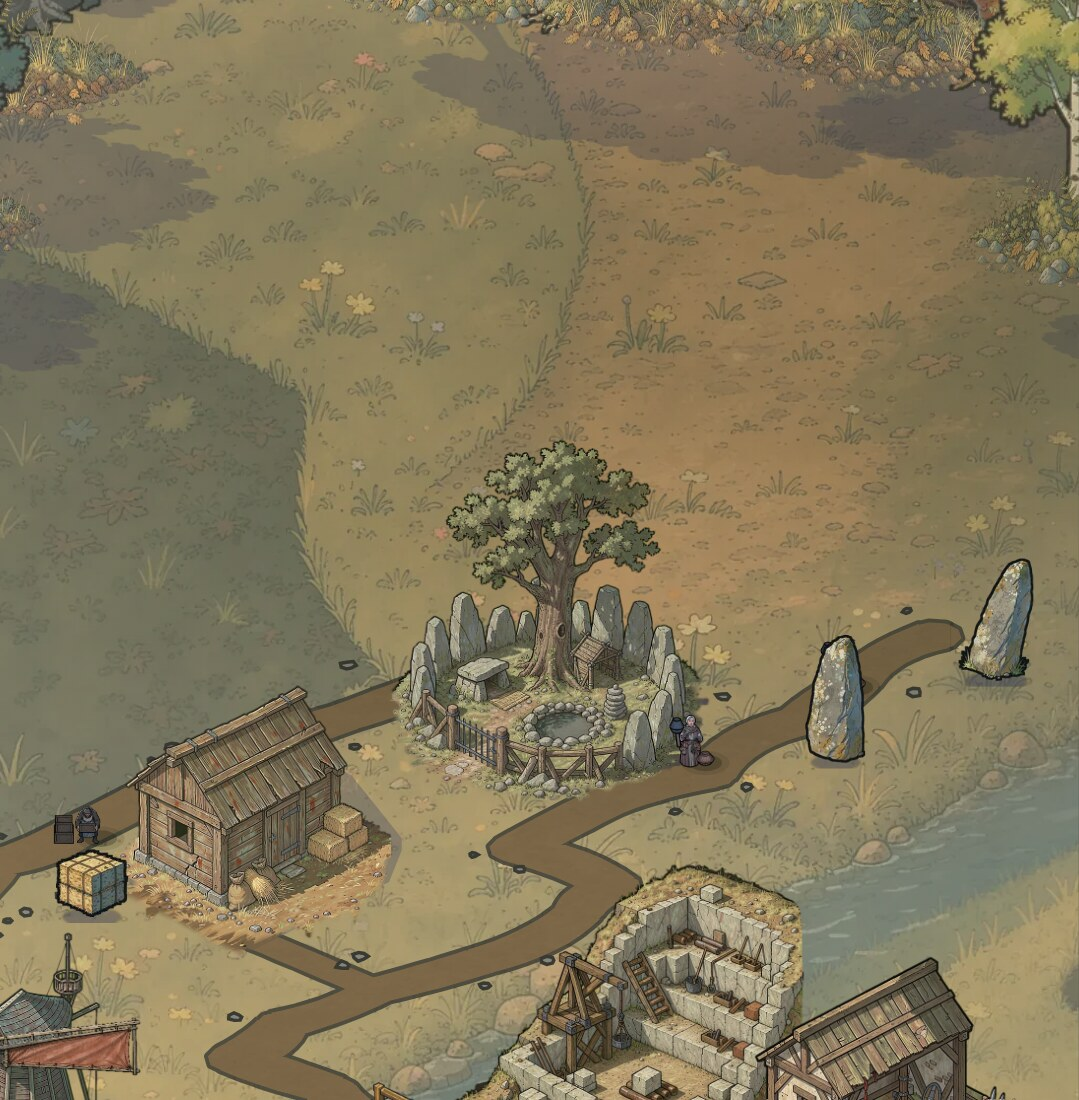
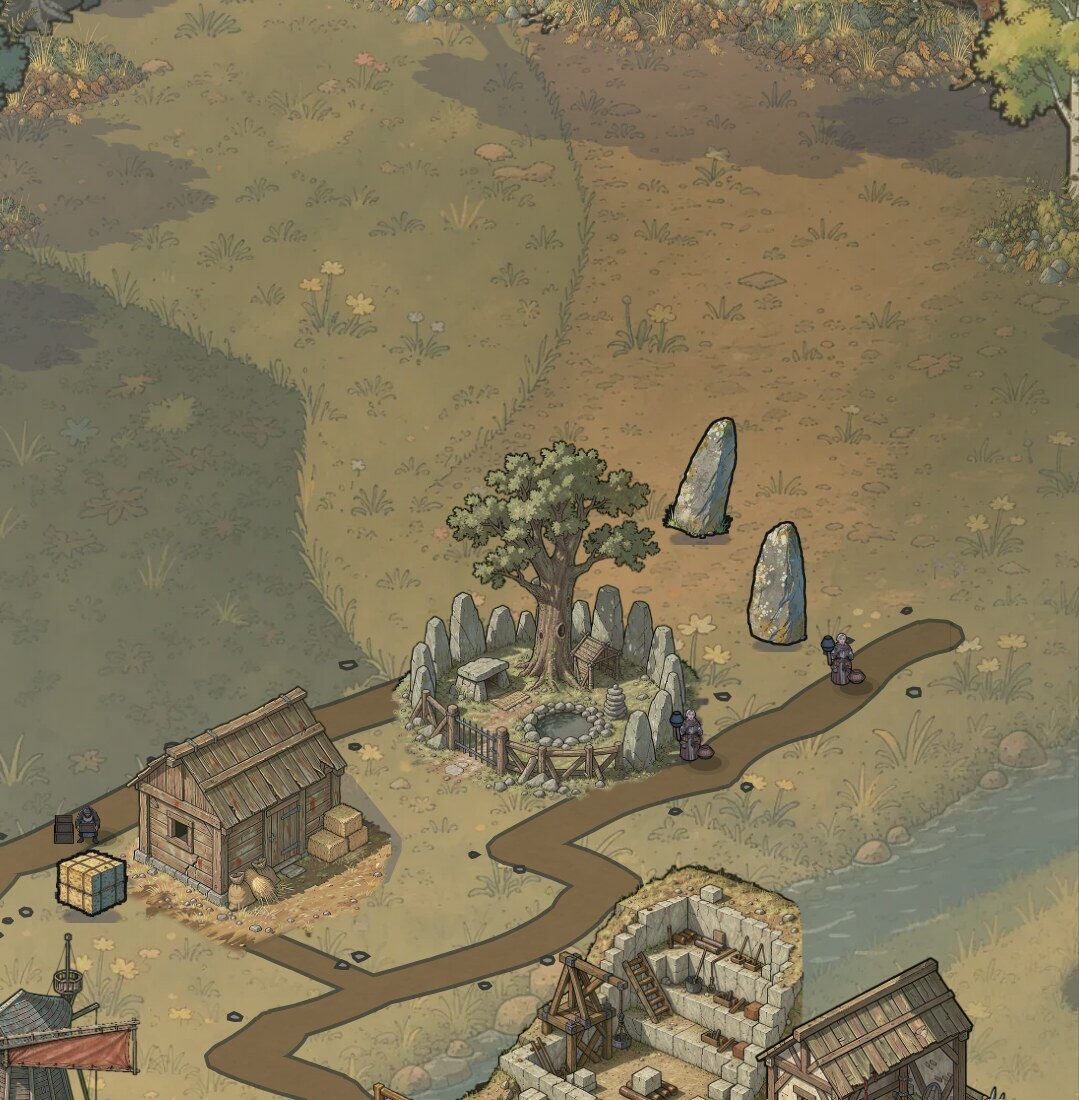
fix(layout): dead ends removed, menhirs off the road, south gate opening free of standing figures
Claude-Session: https://claude.ai/code/session_016PyBattknJAtyEqh7E1ngo

Changed region(s): [[0.6117, 0.3709, 0.8258, 0.7109], [0.8869, 0.4945, 0.9787, 0.6491], [0.6117, 0.6491, 0.6728, 0.7109]]

diff --git a/components/village/iso/alentours.ts b/components/village/iso/alentours.ts
@@ -1140,8 +1140,8 @@ export const ACCESSOIRES: readonly Accessoire[] = [
   { nom: "ratelier_2", case: [14, 14], batiment: "archery_range", palier: 5 },
   { nom: "caisses_1", case: [16, 7], batiment: "armory" },
   { nom: "etal_1", case: [9, 12], batiment: "fountain", palier: 6 },
-  { nom: "menhir_1", case: [0, -6], batiment: "druid_grove" },
-  { nom: "menhir_3", case: [0, -8], batiment: "druid_grove", palier: 7 },
+  { nom: "menhir_1", case: [-2, -7], batiment: "druid_grove" },
+  { nom: "menhir_3", case: [-4, -8], batiment: "druid_grove", palier: 7 },
   { nom: "menhir_2", case: [17, 1], batiment: "wizard_tower" },
   { nom: "lanterne_2", case: [16, 6], batiment: "watchtower" },
   { nom: "poteau_indicateur_1", case: [19, 14], batiment: "high_road" },
@@ -1158,7 +1158,7 @@ export const ACCESSOIRES: readonly Accessoire[] = [
     palier: 3,
   },
   { nom: "pecheur_1", case: [2, 11], pied: [2.55, 11.02], palier: 2 },
-  { nom: "charrette_cassee_1", case: [13, 18], palier: 10 },
+  { nom: "charrette_cassee_1", case: [15, 19], palier: 10 },
   { nom: "renard_1", case: [-4, 8], batiment: "farm", palier: 4 },
   // The south corner, off the island: the cart alone, on the road's edge beside the wheat plot (docs/designs/village-loop/loupes/bc/route_tuiles.json). The painted ground carries its own fence, hay, barrels and crates. It repeats the prop 6 cells or more away on the island, so mirrored.
   // Round 5: wholly on the road, near its east edge, never across it. The painted road is about 150 px wide here (x 255 to 405 at y 1600 on p06) and the cart's art 71 px, so the foot at screen px (346, 1630) keeps the wheel 20 px inside the edge.

diff --git a/components/village/iso/marcheurs.ts b/components/village/iso/marcheurs.ts
@@ -264,10 +264,9 @@ export function casesDuLieu(lieu: Lieu, carte: Carte): Case[] {
     return tri(
       unique([
         // Not the cells under the gatehouse's door (17, 10) and the south gate (12, 15): a villager standing there hides the gate.
+        // The south gate's cells (12, 16) and (12, 17) are the opening onto the south road: nobody stands there either.
         [18, 10],
         [19, 10],
-        [12, 16],
-        [12, 17],
       ]),
     );
   if (lieu === "lisiere") {

diff --git a/scripts/layout/paliers.py b/scripts/layout/paliers.py
@@ -39,7 +39,7 @@ PLOT = {
 }
 # The wall's stages keep starting at tier 6 (palisade through tier 6, the locked corner's look); its plot only joins earlier.
 ETAPES_A_PART = {"castle_wall": 6, "watchtower": 6}
-RETENUES = {(18, 13): 7, (19, 13): 8, (16, 15): 7, (11, 17): 7, (12, 17): 7, (8, 17): 8, (9, 17): 7, (10, 17): 7, (19, 10): 7, (3, 15): 7, (4, 15): 7, (5, 15): 7}
+RETENUES = {(18, 13): 7, (19, 13): 8, (16, 15): 7, (11, 17): 7, (12, 17): 7, (8, 17): 8, (9, 17): 7, (10, 17): 7, (19, 10): 7}
 REMPART = 4  # the south corner (gate, L of wall, road, field) arrives at tier 4, where the painted `.t1-3` ground bands give way
 CHAMPS = 4
 MARGE_PLOT = 2
